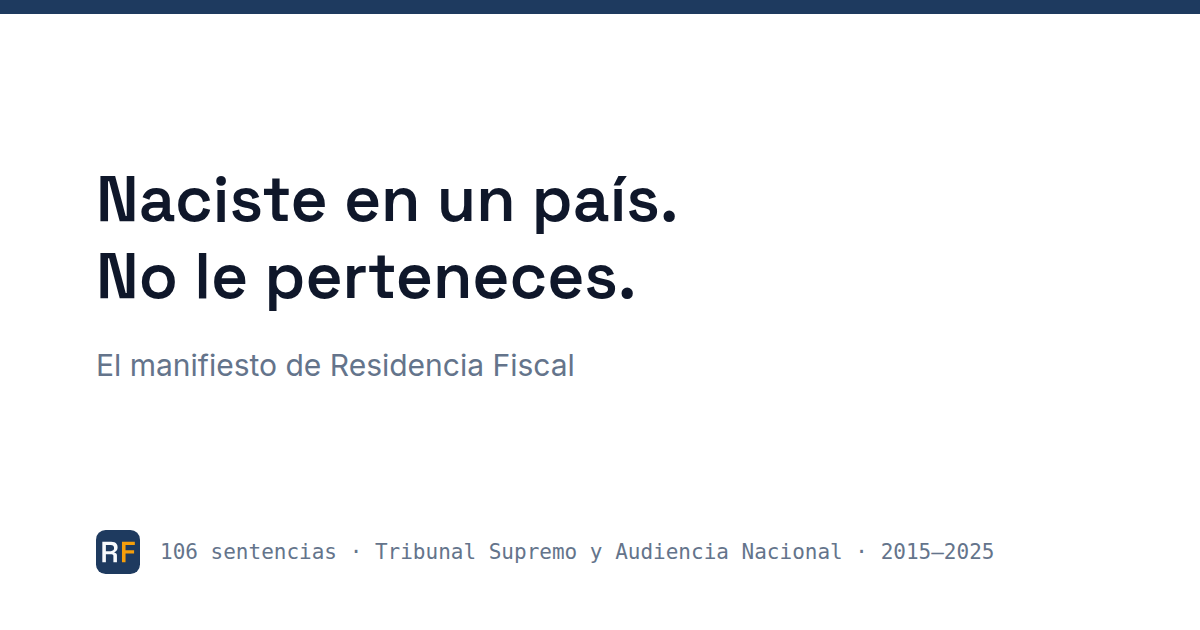
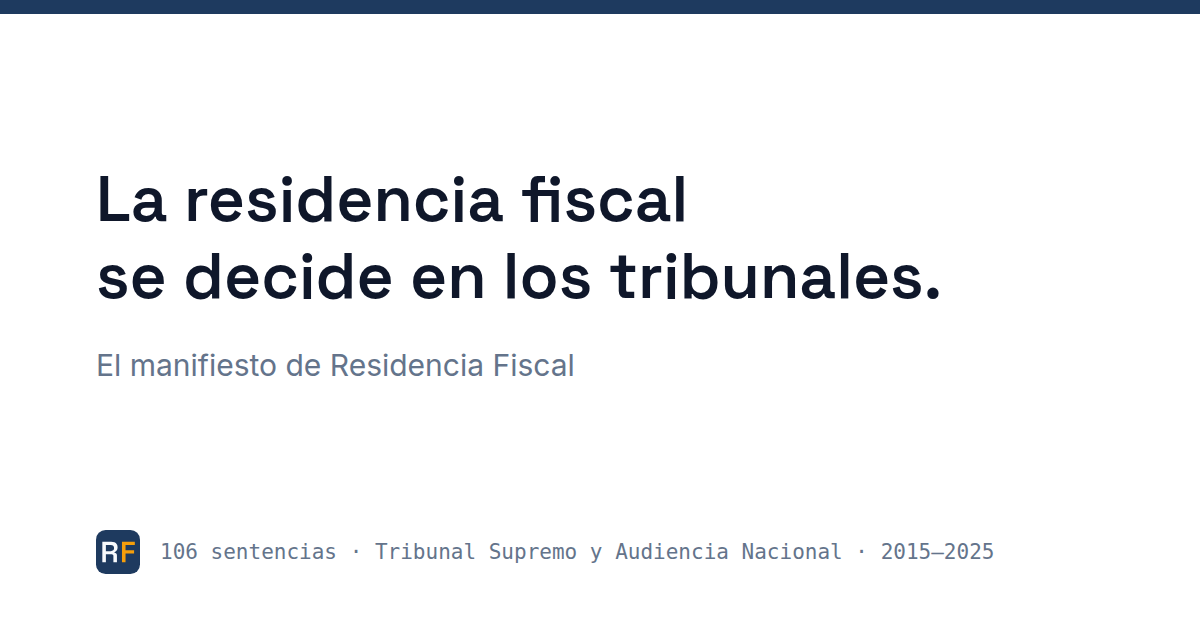
Reposiciona la marca como herramienta para profesionales
La narrativa deja de dirigirse al particular («al alcance de cualquiera»)
y pasa a herramienta de trabajo para abogados, asesores fiscales y
especialistas en tributación internacional. Nuevo claim canónico:
«Trabaja cada caso de residencia fiscal con las sentencias en la mano».

- Manifiesto canónico y brandbook reescritos (asimetría entre grandes
  despachos y el resto de profesionales), replicados en ManifiestoPage.
- Aviso del chat reencuadrado conservando «experimentales» y «no
  constituye asesoramiento legal ni jurídico».
- Bienvenida del chat, landing de España, metas de index.html,
  countryRoutes/staticRoutes y llms.txt alineados con la audiencia.
- Imágenes OG regeneradas con npm run og.

Claude-Session: https://claude.ai/code/session_016cy5oenXGR88GrwdxN4CN9

Changed region(s): [[0.0617, 0.3921, 0.8017, 0.4825], [0.0925, 0.2714, 0.5858, 0.3619]]

diff --git a/frontend/src/pages/ManifiestoPage.tsx b/frontend/src/pages/ManifiestoPage.tsx
@@ -10,45 +10,51 @@ const BREADCRUMB = breadcrumbJsonLd([{ name: 'Manifiesto', path: '/manifiesto' }
 // se hace allí primero y se replica aquí en el mismo commit.
 const CREDOS: { title: string; paragraphs: string[] }[] = [
   {
-    title: 'Naciste en un país. No le perteneces.',
+    title: 'La residencia fiscal se decide en los tribunales.',
     paragraphs: [
-      'Naciste donde naciste por azar, y el azar no es un contrato. Eres libre de vivir donde mejor te traten: donde encajen tus intereses, tu estilo de vida y tu momento vital. Hay etapas para emprender, etapas para criar, etapas para cuidar y etapas para volver. Un mundo más justo es uno en el que cada persona puede elegir su sitio en cada una de ellas — sin pedir perdón por ello.',
+      'El artículo 9 de la LIRPF cabe en una página; los litigios que lo interpretan llenan miles. Cuántos días computan y qué ausencias suman, qué prueba acredita la residencia en otro país, cuánto pesa el patrimonio cuando los días no bastan: nada de eso está resuelto en la ley. Está resuelto en las sentencias.',
     ],
   },
   {
-    title: 'Elegir dónde tributas es un derecho, no una sospecha.',
+    title: 'El criterio real estaba disperso.',
     paragraphs: [
-      'La ley lo reconoce. Los convenios entre países lo regulan artículo por artículo. Miles de personas lo ejercen cada año, y los tribunales llevan décadas diciendo exactamente qué hace falta para hacerlo bien. No es un vacío legal ni una ingeniería exótica: es un derecho ordinario, con sus reglas escritas y públicas.',
+      'El CENDOJ publica cada resolución, pero el criterio no viene sistematizado: hay que leer las sentencias una a una, clasificar qué se discutió, qué se probó y por qué se ganó o se perdió, y mantener ese archivo al día. Es un trabajo de semanas que no cabe en la preparación de un caso concreto.',
     ],
   },
   {
-    title: 'Pero ese derecho tenía dueño.',
+    title: 'Solo los equipos más grandes podían permitirse ese archivo.',
     paragraphs: [
-      'Sobre el papel era de todos. En la práctica, solo de quienes podían pagar a los mejores: los grandes despachos que se saben cada sentencia, que conocen qué prueba convence a un tribunal, cuál se desmonta en la primera vista y qué criterio decide el caso cuando los días no bastan. Los millonarios y los políticos siempre han tenido ese conocimiento a su servicio. Enfrente, la Administración lo tiene todo: cada expediente, cada precedente, cada criterio. Y en medio tú, con lo que te hayan contado.',
+      'Los despachos que litigan residencia fiscal a escala se saben cada sentencia: qué prueba convence a la Audiencia Nacional, cuál se desmonta en la primera vista, qué criterio decide cuando el cómputo de días no es concluyente. El abogado independiente, el despacho pequeño o el asesor al que le entra un caso de residencia trabajan enfrente de la Administración — que tiene cada expediente y cada precedente — con una fracción de esa información.',
     ],
   },
   {
-    title: 'La asimetría no está en la ley. Está en la información.',
+    title: 'La asimetría no está en el criterio jurídico. Está en la infraestructura.',
     paragraphs: [
-      'Y siempre ha caído del mismo lado. Cuando solo una parte conoce las reglas del juego, la ley deja de ser un marco común y se convierte en la ventaja de los que ya ganaban. Esa es la injusticia concreta contra la que existe este proyecto: no que haya reglas, sino que solo unos pocos supieran leerlas.',
+      'Cuando una parte tiene la jurisprudencia sistematizada y la otra no, la diferencia no la marca el mejor argumento, sino el mejor archivo. Esa es la asimetría concreta que este proyecto existe para corregir: no entre quien sabe derecho y quien no, sino entre quien tiene la base documental y quien no puede costearla.',
     ],
   },
   {
-    title: 'Este movimiento existe para romper esa asimetría.',
+    title: 'Residencia Fiscal es ese archivo, abierto.',
     paragraphs: [
-      'Residencia Fiscal pone la jurisprudencia real — las sentencias del Tribunal Supremo y la Audiencia Nacional que deciden estos casos, leídas una a una — al alcance de cualquiera. La misma materia prima con la que trabajan los mejores asesores fiscales del país, ahora en tus manos. Y con la cita siempre a la vista, para que no tengas que creernos: puedes ir a la sentencia y comprobarlo.',
+      '106 resoluciones del Tribunal Supremo y la Audiencia Nacional, leídas una a una y estructuradas por cuestión jurídica, prueba aportada, valoración y resultado. La misma base documental con la que trabajan los equipos más especializados, disponible como herramienta de trabajo para cualquier profesional del derecho tributario.',
     ],
   },
   {
-    title: 'Todo legal. Todo a la luz.',
+    title: 'La cita no se negocia.',
     paragraphs: [
-      'Aquí no hay trucos, ni atajos, ni sombras. Las reglas están publicadas y son las mismas para todos; la diferencia es que ahora todos las conocen. Quien elige bien su residencia no tiene nada que esconder — precisamente por eso necesita saber qué se le va a exigir, qué tendrá que probar y cómo se valora esa prueba.',
+      'Ninguna afirmación se publica sin su sentencia, su página y su extracto literal, contrastado palabra por palabra con el documento de origen. El análisis lo genera un modelo y se declara como tal; el texto judicial no se reescribe jamás. No hace falta creernos: cada cita lleva el camino de vuelta a la resolución.',
     ],
   },
   {
-    title: 'No te decimos dónde vivir. Te enseñamos cómo lo juzgan los tribunales.',
+    title: 'Una herramienta de trabajo, no un sustituto del criterio.',
     paragraphs: [
-      'La decisión es tuya y de nadie más. Lo nuestro es que la tomes sabiendo lo mismo que sabe la otra parte: qué dice el Supremo, qué dice la Audiencia Nacional, qué pesó en cada caso y por qué. La libertad se ejerce mejor informado.',
+      'Esta herramienta no asesora, no predice el resultado de un caso ni firma escritos. Localiza los precedentes comparables, muestra qué se probó, cómo se valoró y qué decidió el tribunal, y deja la cita a la vista para verificarla. El criterio profesional — y la responsabilidad — siguen siendo del abogado.',
+    ],
+  },
+  {
+    title: 'El mismo punto de partida para todo el que ejerce.',
+    paragraphs: [
+      'Un asesor con un solo caso de residencia merece empezar donde empiezan los equipos que llevan cientos. Ese es el proyecto: que la calidad del trabajo la decida el criterio del profesional, no el tamaño de su archivo.',
     ],
   },
 ];
@@ -61,8 +67,7 @@ export function ManifiestoPage() {
       <div className='mb-10 border-t-4 border-primary pt-6'>
         <h1 className='mb-3 font-heading text-3xl font-semibold'>Manifiesto</h1>
         <p className='text-base leading-relaxed text-muted-foreground'>
-          Reside donde mejor te traten. Decide sobre tu residencia fiscal con las sentencias en la
-          mano.
+          Trabaja cada caso de residencia fiscal con las sentencias en la mano.
         </p>
       </div>
 
@@ -78,7 +83,7 @@ export function ManifiestoPage() {
       ))}
 
       <p className='mb-10 font-heading text-2xl font-semibold'>
-        La ley, por fin, también a tu favor.
+        La jurisprudencia, por fin, a disposición de quien la trabaja.
       </p>
 
       <div className='flex flex-wrap items-center gap-4 border-t border-border pt-6'>

diff --git a/frontend/index.html b/frontend/index.html
@@ -3,10 +3,10 @@
   <head>
     <meta charset="UTF-8" />
     <meta name="viewport" content="width=device-width, initial-scale=1.0" />
-    <title>Residencia Fiscal — Consulta la jurisprudencia del art. 9 LIRPF</title>
+    <title>Residencia Fiscal — Jurisprudencia del art. 9 LIRPF para profesionales</title>
     <meta
       name="description"
-      content="Consulta en lenguaje natural 106 sentencias del Tribunal Supremo y la Audiencia Nacional sobre residencia fiscal de personas físicas en España."
+      content="Herramienta de trabajo para abogados y asesores fiscales: 106 sentencias del Tribunal Supremo y la Audiencia Nacional sobre residencia fiscal, con cita literal verificable."
     />
     <!-- La shell no es ninguna página pública desde que `/` redirige a
          `/espana`: solo la sirven `/consulta` y `/c/*`. El prerender reescribe
@@ -19,20 +19,20 @@
     <meta property="og:type" content="website" />
     <meta property="og:site_name" content="Residencia Fiscal" />
     <meta property="og:locale" content="es_ES" />
-    <meta property="og:title" content="Residencia Fiscal — Consulta la jurisprudencia del art. 9 LIRPF" />
+    <meta property="og:title" content="Residencia Fiscal — Jurisprudencia del art. 9 LIRPF para profesionales" />
     <meta
       property="og:description"
-      content="Reside donde mejor te traten. Decide con las sentencias en la mano: 106 sentencias del Tribunal Supremo y la Audiencia Nacional sobre residencia fiscal, con la cita siempre a la vista."
+      content="Trabaja cada caso de residencia fiscal con las sentencias en la mano: 106 sentencias del Tribunal Supremo y la Audiencia Nacional, con la cita siempre a la vista."
     />
     <meta property="og:url" content="https://residenciafiscal.org/" />
     <meta property="og:image" content="https://residenciafiscal.org/og-image.png" />
     <meta property="og:image:width" content="1200" />
     <meta property="og:image:height" content="630" />
     <meta name="twitter:card" content="summary_large_image" />
-    <meta name="twitter:title" content="Residencia Fiscal — Consulta la jurisprudencia del art. 9 LIRPF" />
+    <meta name="twitter:title" content="Residencia Fiscal — Jurisprudencia del art. 9 LIRPF para profesionales" />
     <meta
       name="twitter:description"
-      content="Reside donde mejor te traten. Decide con las sentencias en la mano: 106 sentencias del Tribunal Supremo y la Audiencia Nacional sobre residencia fiscal, con la cita siempre a la vista."
+      content="Trabaja cada caso de residencia fiscal con las sentencias en la mano: 106 sentencias del Tribunal Supremo y la Audiencia Nacional, con la cita siempre a la vista."
     />
     <meta name="twitter:image" content="https://residenciafiscal.org/og-image.png" />
     <!-- Tipografías autoalojadas en `src/main.tsx`; su preload lo inyecta

diff --git a/frontend/src/components/country/SpainLandingContent.tsx b/frontend/src/components/country/SpainLandingContent.tsx
@@ -69,9 +69,11 @@ export function SpainLandingContent() {
         <p className='mb-4 text-sm leading-relaxed text-muted-foreground'>
           106 resoluciones del Tribunal Supremo y la Audiencia Nacional (2015–2025) sobre residencia
           fiscal de personas físicas, conservadas con su texto literal: ninguna cita se publica sin
-          haberse contrastado palabra por palabra con la sentencia. El análisis lo genera un modelo
-          de IA y su revisión jurídica es del agente, no una aprobación humana; esta herramienta
-          sirve para investigación y no constituye asesoramiento jurídico.
+          haberse contrastado palabra por palabra con la sentencia. Es una herramienta de trabajo
+          para la investigación jurisprudencial de abogados, asesores fiscales y especialistas en
+          tributación internacional. El análisis lo genera un modelo de IA y su revisión jurídica es
+          del agente, no una aprobación humana; no constituye asesoramiento jurídico y cada cita
+          debe verificarse en su sentencia de origen.
         </p>
         <ul className='list-disc space-y-1 pl-5 text-sm leading-relaxed'>
           <li>

diff --git a/frontend/src/components/chat/ChatWelcome.tsx b/frontend/src/components/chat/ChatWelcome.tsx
@@ -16,11 +16,12 @@ export function ChatWelcome({ onSelectPrompt }: ChatWelcomeProps) {
       className='flex flex-1 flex-col items-center justify-center px-4 py-8 text-center'
     >
       <h1 className='mb-2 font-heading text-2xl font-semibold text-foreground'>
-        Decide tu fiscalidad con las sentencias en la mano
+        Trabaja cada caso de residencia fiscal con las sentencias en la mano
       </h1>
       <p className='mb-3 max-w-xl text-sm leading-relaxed text-muted-foreground'>
-        106 sentencias sobre residencia fiscal, con la cita siempre a la vista. Elige una respuesta
-        editorial o escribe tu propia consulta.
+        Herramienta de investigación jurisprudencial para abogados, asesores fiscales y
+        especialistas en tributación internacional: 106 sentencias con la cita siempre a la vista.
+        Elige una respuesta editorial o escribe tu propia consulta.
       </p>
       <p className='mb-8 text-sm'>
         <Link

diff --git a/frontend/tests/SpainPage.test.tsx b/frontend/tests/SpainPage.test.tsx
@@ -18,12 +18,12 @@ describe('SpainPage', () => {
     expect(screen.getByTestId('chat-welcome')).toBeInTheDocument();
     expect(
       screen.getByRole('heading', {
-        name: 'Decide tu fiscalidad con las sentencias en la mano',
+        name: 'Trabaja cada caso de residencia fiscal con las sentencias en la mano',
       })
     ).toBeInTheDocument();
     expect(
       screen.getByText(
-        '106 sentencias sobre residencia fiscal, con la cita siempre a la vista. Elige una respuesta editorial o escribe tu propia consulta.'
+        'Herramienta de investigación jurisprudencial para abogados, asesores fiscales y especialistas en tributación internacional: 106 sentencias con la cita siempre a la vista. Elige una respuesta editorial o escribe tu propia consulta.'
       )
     ).toBeInTheDocument();
     expect(screen.getByRole('button', { name: /183 días/ })).toBeInTheDocument();

diff --git a/frontend/src/components/chat/ChatSafetyBanner.tsx b/frontend/src/components/chat/ChatSafetyBanner.tsx
@@ -8,8 +8,9 @@ export const ChatSafetyBanner = () => (
   >
     <AlertTriangle className='mt-0.5 h-4 w-4 shrink-0' aria-hidden='true' />
     <p>
-      <strong>Aviso:</strong> respuestas experimentales, no constituye asesoramiento legal ni
-      jurídico.
+      <strong>Aviso:</strong> herramienta de investigación para profesionales. Las respuestas son
+      experimentales, exigen verificación en la sentencia de origen y su uso no constituye
+      asesoramiento legal ni jurídico.
       <a className='ml-1 underline' href='/privacidad'>
         Privacidad
       </a>

diff --git a/frontend/og/og-image.html b/frontend/og/og-image.html
@@ -87,8 +87,8 @@
         <div class="wordmark">Residencia <span>Fiscal</span></div>
       </div>
       <p class="claim">
-        <strong>Reside donde mejor te traten.</strong><br />
-        Decide sobre tu residencia fiscal con las sentencias en la mano.
+        <strong>Trabaja cada caso de residencia fiscal</strong><br />
+        con las sentencias en la mano.
       </p>
     </main>
     <footer>106 sentencias · Tribunal Supremo y Audiencia Nacional · 2015–2025</footer>

diff --git a/frontend/og/og-image-manifiesto.html b/frontend/og/og-image-manifiesto.html
@@ -72,7 +72,7 @@
   <body>
     <div class="filete"></div>
     <main>
-      <p class="quote">Naciste en un país.<br />No le perteneces.</p>
+      <p class="quote">La residencia fiscal<br />se decide en los tribunales.</p>
       <p class="kicker">El manifiesto de Residencia Fiscal</p>
     </main>
     <footer>

diff --git a/docs/brand/brand-guidelines.md b/docs/brand/brand-guidelines.md
@@ -7,11 +7,13 @@
 
 ## 1. La marca en dos frases
 
-**Narrativa** («Vive donde elijas»): un movimiento contra la asimetría de información —
-democratizar el conocimiento jurisprudencial con el que trabajan los mejores asesores
-fiscales, siempre dentro de la ley. **Ejecución visual** («El expediente, legible»):
-rigor documental; el color se gana, la cita no se negocia. La tesis que las une:
-*la libertad se ejerce mejor documentado*.
+**Narrativa** («El archivo de los grandes despachos, abierto»): una herramienta de
+trabajo para profesionales del derecho tributario — abogados, asesores fiscales,
+especialistas en tributación internacional y compliance — que sistematiza la
+jurisprudencia que decide los casos de residencia fiscal, hasta ahora solo al
+alcance de los equipos que litigan a escala. **Ejecución visual** («El expediente,
+legible»): rigor documental; el color se gana, la cita no se negocia. La tesis que
+las une: *el criterio se ejerce mejor documentado*.
 
 ## 2. Identidad gráfica
 
@@ -120,20 +122,25 @@ sistema: no se descarga ninguna tercera fuente.
 
 ## 6. Voz y mensaje
 
-- **Claim canónico:** «Reside donde mejor te traten. Decide con las sentencias en la
-  mano.» La primera frase nunca aparece sin la segunda.
+- **Claim canónico:** «Trabaja cada caso de residencia fiscal con las sentencias en
+  la mano.» Se usa completo, sin recortar.
 - **Claim funcional** (README, docs, metadescripciones): «106 sentencias sobre
   residencia fiscal, con la cita siempre a la vista.»
+- **Audiencia:** la marca habla a quien ejerce — abogados, asesores fiscales,
+  especialistas en tributación internacional, compliance —, en registro
+  profesional. No promete decisiones vitales al particular; promete base
+  documental verificable al profesional.
 - **Manifiesto:** tres versiones canónicas y reglas de uso en
   [`manifiesto.md`](manifiesto.md). Se usa una versión entera o no se usa.
 - **Distinción obligatoria:** toda respuesta separa criterio del tribunal, hechos
   probados e inferencia.
 - **Vetos:** «asesoramiento», «abogado virtual», «garantizamos», «IA jurídica»,
   promesas de resultado; y todo lo que suene a ocultación: «paga cero», «Hacienda no
-  se enterará», «escapa», «paraíso fiscal» como reclamo. La marca democratiza la
-  *información* de los mejores asesores; nunca promete el *servicio*. Habla de
-  *elegir*, no de *huir*. El veto más grave: citar una sentencia que no esté en el
-  corpus.
+  se enterará», «escapa», «paraíso fiscal» como reclamo. La marca pone a disposición
+  del profesional la *información sistematizada* con la que trabajan los mejores
+  equipos; nunca promete el *servicio* ni sustituye el criterio de quien ejerce.
+  Habla de *elegir* y de *probar*, no de *huir*. El veto más grave: citar una
+  sentencia que no esté en el corpus.
 - Mientras el motor sea stub, el aviso de contenido simulado **es parte del contrato
   de marca**, no un parche.
 
@@ -178,7 +185,7 @@ Antes de publicar cualquier pieza —interfaz, OG, copy, correo—:
 - [ ] Todo contenido generado que se muestre lleva su cita visible (ROJ/ECLI).
 - [ ] Ninguna palabra de las dos listas de vetos (§6).
 - [ ] Si la pieza usa el manifiesto, lleva el ancla del producto: la cifra del corpus,
-      una cita, o la segunda frase del claim. **La promesa de libertad nunca viaja sola.**
+      una cita, o el claim canónico. **La promesa nunca viaja sola.**
 - [ ] Contraste comprobado en cualquier par nuevo: calculado, no estimado a ojo.
 - [ ] Si el motor sigue en `stub`, la pieza no promete respuestas reales.
 - [ ] Si se tocó un token, los artefactos están regenerados en el mismo commit.
